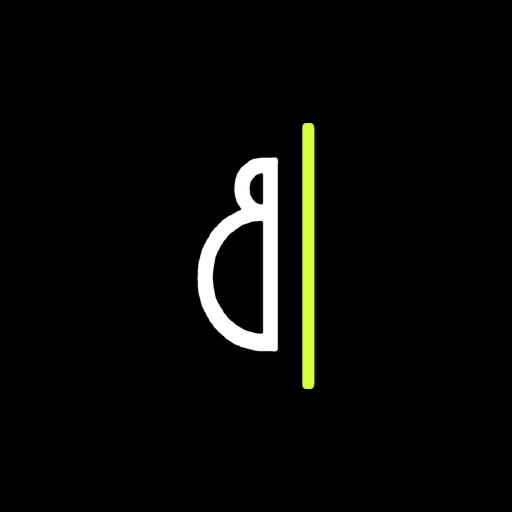
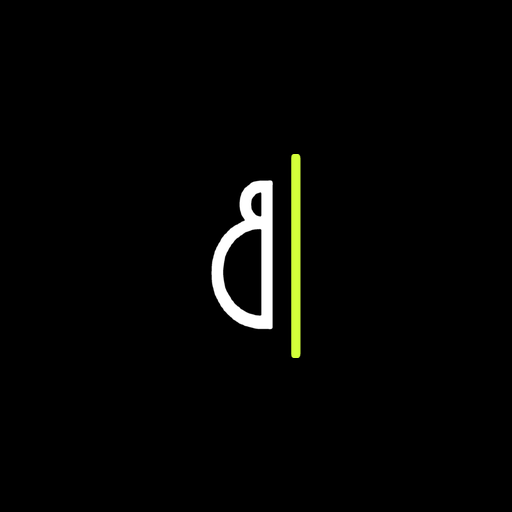
Ícono: B más chica y centrada
Claude-Session: https://claude.ai/code/session_01H4DeFYLWrQUZpG6hCArorW

Changed region(s): [[0.375, 0.2188, 0.625, 0.7812]]

diff --git a/index.html b/index.html
@@ -5,9 +5,9 @@
 <meta name="viewport" content="width=device-width, initial-scale=1">
 <meta name="theme-color" content="#F4F5F1">
 <title>Lado B · Consultorio</title>
-<link rel="manifest" href="manifest.webmanifest?v=2">
-<link rel="icon" type="image/png" sizes="32x32" href="icons/favicon-32.png?v=2">
-<link rel="apple-touch-icon" href="icons/apple-touch-icon.png?v=2">
+<link rel="manifest" href="manifest.webmanifest?v=3">
+<link rel="icon" type="image/png" sizes="32x32" href="icons/favicon-32.png?v=3">
+<link rel="apple-touch-icon" href="icons/apple-touch-icon.png?v=3">
 <meta name="apple-mobile-web-app-title" content="Lado B">
 <meta name="apple-mobile-web-app-capable" content="yes">
 <meta name="mobile-web-app-capable" content="yes">
